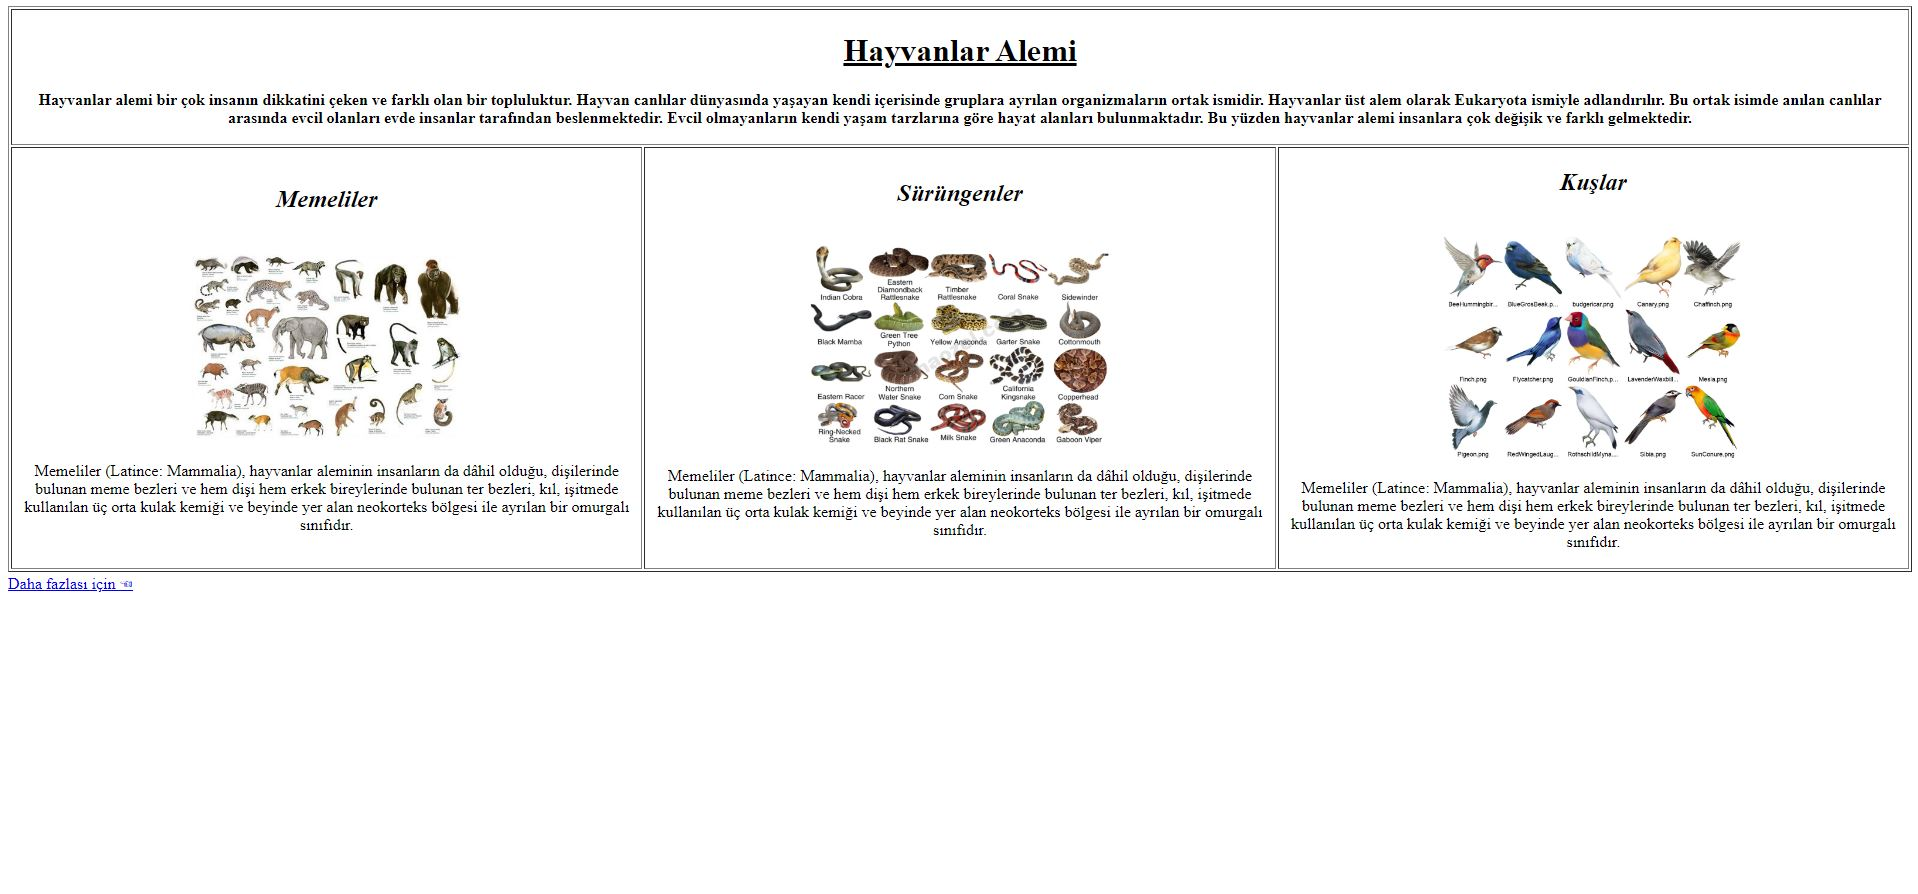
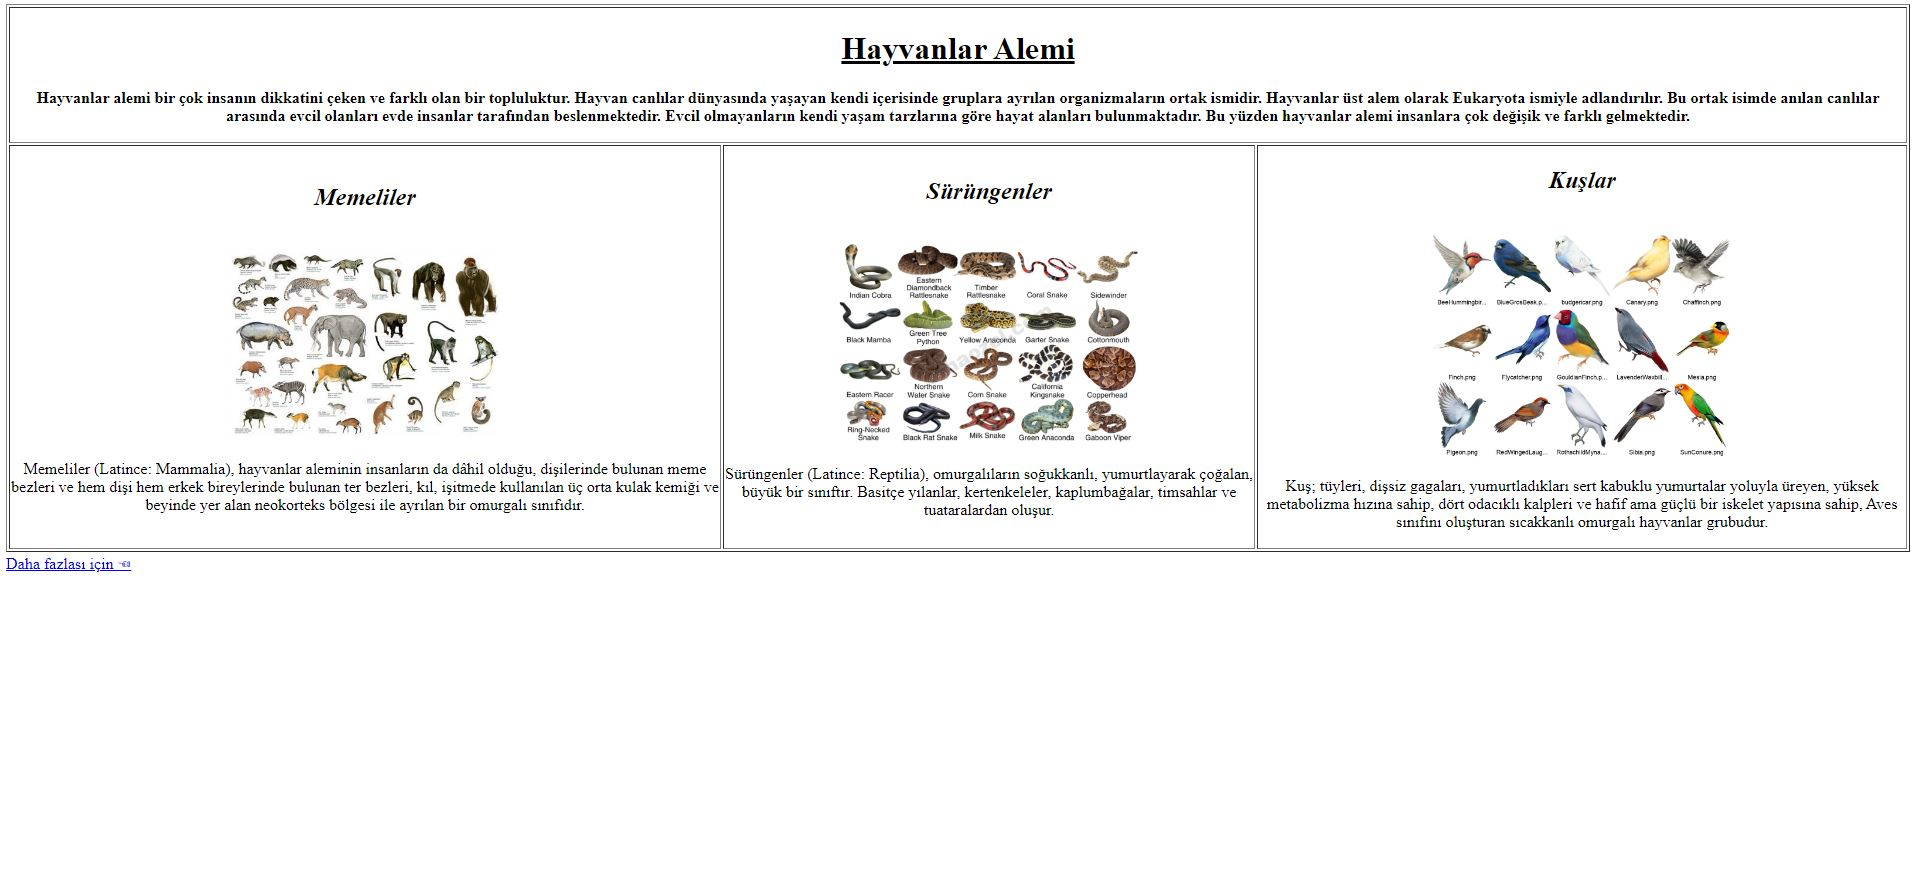
guncellendi

Changed region(s): [[0.0, 0.0, 1.0, 0.682], [0.1232, 0.217, 0.2156, 0.248]]

diff --git a/HTML/1-Hafta-1/Tablo-Odev-1/index.html b/HTML/1-Hafta-1/Tablo-Odev-1/index.html
@@ -19,13 +19,13 @@
             </td>
             <td align="center"><h2 style="text-align: center;"><i>Sürüngenler</i></h2><br>
                 <img width="300px" src="images/surungenler.png" alt="Sürüngen hayvan örnekleri">
-                <p>Memeliler (Latince: Mammalia), hayvanlar aleminin insanların da dâhil olduğu, dişilerinde bulunan meme bezleri ve hem dişi hem erkek bireylerinde bulunan ter bezleri, kıl, işitmede kullanılan üç orta kulak kemiği ve beyinde yer alan neokorteks bölgesi ile ayrılan bir omurgalı sınıfıdır.</p>
+                <p>Sürüngenler (Latince: Reptilia), omurgalıların soğukkanlı, yumurtlayarak çoğalan, büyük bir sınıftır. Basitçe yılanlar, kertenkeleler, kaplumbağalar, timsahlar ve tuataralardan oluşur.</p>
 
                 
             </td>
             <td align="center"><h2><i>Kuşlar</i></h2><br>
                 <img width="300px" src="images/kuslar.jpg" alt="Kuş örnekleri">
-                <p>Memeliler (Latince: Mammalia), hayvanlar aleminin insanların da dâhil olduğu, dişilerinde bulunan meme bezleri ve hem dişi hem erkek bireylerinde bulunan ter bezleri, kıl, işitmede kullanılan üç orta kulak kemiği ve beyinde yer alan neokorteks bölgesi ile ayrılan bir omurgalı sınıfıdır.</p>
+                <p>Kuş; tüyleri, dişsiz gagaları, yumurtladıkları sert kabuklu yumurtalar yoluyla üreyen, yüksek metabolizma hızına sahip, dört odacıklı kalpleri ve hafif ama güçlü bir iskelet yapısına sahip, Aves sınıfını oluşturan sıcakkanlı omurgalı hayvanlar grubudur.</p>
             </td>
         </tr>
     </table>

diff --git a/HTML/1-Hafta-1/Tablo-Odev-1/readme.md b/HTML/1-Hafta-1/Tablo-Odev-1/readme.md
@@ -1,3 +1,3 @@
 # Hayvanlar Alemi
 #### Tablo konusundan sonra pratik kazanmak için hazırlanan, içeriği hayvanlar aleminden oluşturulan kod.
-![Website Görseli](https://r.resimlink.com/8ZklxWJ.jpg)
+![Website Görseli](https://r.resimlink.com/7J34cM1.jpg)
